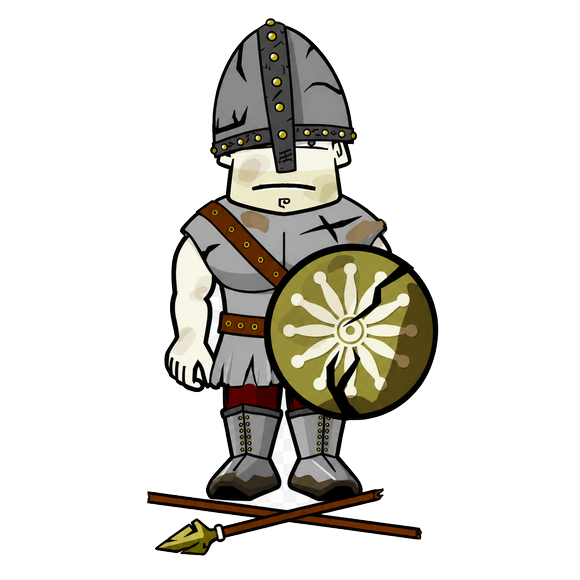
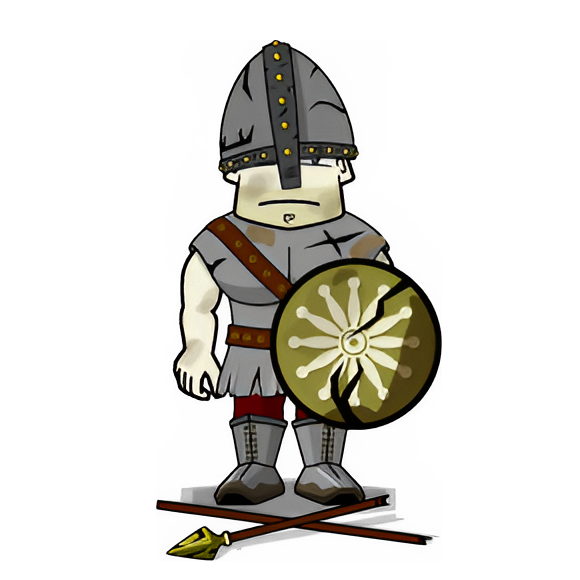
chore: upscale the 2x variants of the web assets
- Replaces the previous 2x variants with upscaled ones, the former
  carried the resolution of the originals under the 2x name

Changed region(s): [[0.2483, 0.031, 0.7759, 0.9931]]

diff --git a/CHANGELOG.md b/CHANGELOG.md
@@ -9,7 +9,7 @@ and this project adheres to [Semantic Versioning](https://semver.org/spec/v2.0.0
 
 ### Added
 
-* High-resolution 2x variants of the legacy web illustrations and UI assets
+* AI-upscaled 2x variants of the legacy web illustrations and UI assets
 
 ### Changed
 
